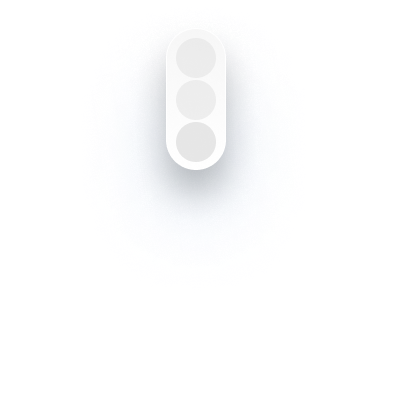
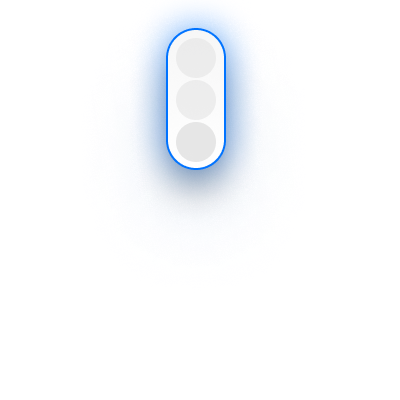
Add new sg selection

Changed region(s): [[0.36, 0.03, 0.63, 0.45]]

diff --git a/lib/ride/views/map.dart b/lib/ride/views/map.dart
@@ -1,3 +1,4 @@
+import 'dart:convert';
 import 'dart:io';
 import 'dart:math';
 
@@ -17,8 +18,10 @@ import 'package:priobike/settings/services/settings.dart';
 import 'package:priobike/status/services/sg.dart';
 
 class RideMapView extends StatefulWidget {
+  /// Callback that is called when the map is moved by the user.
   final Function onMapMoved;
 
+  /// If the map should follow the user location.
   final bool cameraFollowUserLocation;
 
   const RideMapView({Key? key, required this.onMapMoved, required this.cameraFollowUserLocation}) : super(key: key);
@@ -54,7 +57,7 @@ class RideMapViewState extends State<RideMapView> {
   bool? upcomingTrafficLightIsGreen;
 
   /// The index of the basemap layers where the first label layer is located (the label layers are top most).
-  var firstBaseMapLabelLayerIndex = 0;
+  int firstBaseMapLabelLayerIndex = 0;
 
   /// The index in the list represents the layer order in z axis.
   final List layerOrder = [
@@ -64,6 +67,7 @@ class RideMapViewState extends State<RideMapView> {
     userLocationLayerId,
     OfflineCrossingsLayer.layerId,
     TrafficLightsLayer.layerId,
+    TrafficLightsLayer.touchIndicatorsLayerId,
     TrafficLightLayer.layerId,
   ];
 
@@ -124,9 +128,10 @@ class RideMapViewState extends State<RideMapView> {
     await WaypointsLayer().update(mapController!);
     // Only hide the traffic lights behind the position if the user hasn't selected a SG.
     if (!mounted) return;
-    await TrafficLightsLayer(isDark, hideBehindPosition: ride.userSelectedSG == null).update(mapController!);
+    await TrafficLightsLayer(isDark, hideBehindPosition: false, showTouchIndicators: !widget.cameraFollowUserLocation)
+        .update(mapController!);
     if (!mounted) return;
-    await OfflineCrossingsLayer(isDark, hideBehindPosition: ride.userSelectedSG == null).update(mapController!);
+    await OfflineCrossingsLayer(isDark, hideBehindPosition: false).update(mapController!);
   }
 
   /// Update the view with the current data.
@@ -135,9 +140,10 @@ class RideMapViewState extends State<RideMapView> {
     final isDark = Theme.of(context).brightness == Brightness.dark;
     // Only hide the traffic lights behind the position if the user hasn't selected a SG.
     if (!mounted) return;
-    await TrafficLightsLayer(isDark, hideBehindPosition: ride.userSelectedSG == null).update(mapController!);
+    await TrafficLightsLayer(isDark, hideBehindPosition: false, showTouchIndicators: !widget.cameraFollowUserLocation)
+        .update(mapController!);
     if (!mounted) return;
-    await OfflineCrossingsLayer(isDark, hideBehindPosition: ride.userSelectedSG == null).update(mapController!);
+    await OfflineCrossingsLayer(isDark, hideBehindPosition: false).update(mapController!);
     await adaptToChangedPosition();
   }
 
@@ -154,6 +160,7 @@ class RideMapViewState extends State<RideMapView> {
       await mapController?.flyTo(
         mapbox.CameraOptions(
           center: mapbox.Point(coordinates: mapbox.Position(cameraTarget.longitude, cameraTarget.latitude)).toJson(),
+          padding: mapbox.MbxEdgeInsets(bottom: 200, top: 0, left: 0, right: 0),
           zoom: 16,
         ),
         mapbox.MapAnimationOptions(duration: 200),
@@ -359,11 +366,15 @@ class RideMapViewState extends State<RideMapView> {
     await WaypointsLayer().install(mapController!, iconSize: ppi / 8, at: index);
     index = await getIndex(TrafficLightsLayer.layerId);
     if (!mounted) return;
-    await TrafficLightsLayer(isDark, hideBehindPosition: ride.userSelectedSG == null)
-        .install(mapController!, iconSize: ppi / 5, at: index);
+    await TrafficLightsLayer(isDark, hideBehindPosition: false, showTouchIndicators: !widget.cameraFollowUserLocation)
+        .install(
+      mapController!,
+      iconSize: ppi / 5,
+      at: index,
+    );
     index = await getIndex(OfflineCrossingsLayer.layerId);
     if (!mounted) return;
-    await OfflineCrossingsLayer(isDark, hideBehindPosition: ride.userSelectedSG == null)
+    await OfflineCrossingsLayer(isDark, hideBehindPosition: false)
         .install(mapController!, iconSize: ppi / 5, at: index);
     index = await getIndex(TrafficLightLayer.layerId);
     if (!mounted) return;
@@ -376,7 +387,54 @@ class RideMapViewState extends State<RideMapView> {
 
   /// A callback which is executed when the map is scrolled.
   Future<void> onMapScroll(mapbox.ScreenCoordinate screenCoordinate) async {
+    if (ride.userSelectedSG != null) ride.unselectSG();
     widget.onMapMoved();
+  }
+
+  /// A callback which is executed when a tap on the map is registered.
+  /// This also resolves if a certain feature is being tapped on. This function
+  /// should get screen coordinates. However, at the moment (mapbox_maps_flutter version 0.4.0)
+  /// there is a bug causing this to get world coordinates in the form of a ScreenCoordinate.
+  Future<void> onMapTap(mapbox.ScreenCoordinate screenCoordinate) async {
+    if (mapController == null || !mounted) return;
+    if (widget.cameraFollowUserLocation) return;
+
+    // Because of the bug in the plugin we need to calculate the actual screen coordinates to query
+    // for the features in dependence of the tapped on screenCoordinate afterwards. If the bug is
+    // fixed in an upcoming version we need to remove this conversion.
+    final mapbox.ScreenCoordinate actualScreenCoordinate = await mapController!.pixelForCoordinate(
+      mapbox.Point(
+        coordinates: mapbox.Position(
+          screenCoordinate.y,
+          screenCoordinate.x,
+        ),
+      ).toJson(),
+    );
+
+    final List<mapbox.QueriedFeature?> features = await mapController!.queryRenderedFeatures(
+      mapbox.RenderedQueryGeometry(
+        value: json.encode(actualScreenCoordinate.encode()),
+        type: mapbox.Type.SCREEN_COORDINATE,
+      ),
+      mapbox.RenderedQueryOptions(
+        layerIds: [TrafficLightsLayer.layerId, TrafficLightsLayer.touchIndicatorsLayerId],
+      ),
+    );
+
+    if (features.isNotEmpty) {
+      onFeatureTapped(features[0]!);
+    }
+  }
+
+  /// A callback that is called when the user taps a feature.
+  onFeatureTapped(mapbox.QueriedFeature queriedFeature) async {
+    // Map the id of the layer to the corresponding feature.
+    final id = queriedFeature.feature['id'];
+    if ((id as String).startsWith("traffic-light-")) {
+      final sgIdx = int.tryParse(id.split("-")[2]);
+      if (sgIdx == null) return;
+      ride.userSelectSG(sgIdx);
+    }
   }
 
   @override
@@ -399,6 +457,7 @@ class RideMapViewState extends State<RideMapView> {
       onMapCreated: onMapCreated,
       onStyleLoaded: onStyleLoaded,
       onMapScroll: onMapScroll,
+      onMapTap: onMapTap,
       logoViewMargins: Point(20, marginYLogo),
       logoViewOrnamentPosition: mapbox.OrnamentPosition.TOP_LEFT,
       attributionButtonMargins: Point(20, marginYAttribution),

diff --git a/lib/common/map/layers/sg_layers.dart b/lib/common/map/layers/sg_layers.dart
@@ -18,10 +18,13 @@ class TrafficLightsLayer {
   /// The ID of the Mapbox layer.
   static const layerId = "traffic-lights-icons";
 
+  /// The ID of the touch indicators Mapbox layer.
+  static const touchIndicatorsLayerId = "traffic-lights-touch-indicators";
+
   /// The features to display.
   final List<dynamic> features = List.empty(growable: true);
 
-  TrafficLightsLayer(bool isDark, {hideBehindPosition = false}) {
+  TrafficLightsLayer(bool isDark, {hideBehindPosition = false, showTouchIndicators = false}) {
     final showLabels = getIt<Settings>().sgLabelsMode == SGLabelsMode.enabled;
     final routing = getIt<Routing>();
     final userPosSnap = getIt<Positioning>().snap;
@@ -33,7 +36,7 @@ class TrafficLightsLayer {
       final distanceToSgOnRoute = max(-5, min(0, sgDistanceOnRoute - (userPosSnap?.distanceOnRoute ?? 0)));
       features.add(
         {
-          "id": "traffic-light",
+          "id": "traffic-light-$i", // Required for the click listener.
           "type": "Feature",
           "geometry": {
             "type": "Point",
@@ -45,6 +48,7 @@ class TrafficLightsLayer {
             "showLabels": showLabels,
             "distanceToSgOnRoute": distanceToSgOnRoute,
             "hideBehindPosition": hideBehindPosition,
+            "showTouchIndicators": showTouchIndicators,
           },
         },
       );
@@ -123,6 +127,42 @@ class TrafficLightsLayer {
             ""
           ]));
     }
+
+    final trafficLightTouchIndicatorsLayerExists = await mapController.style.styleLayerExists(touchIndicatorsLayerId);
+    if (!trafficLightTouchIndicatorsLayerExists) {
+      await mapController.style.addLayerAt(
+          mapbox.SymbolLayer(
+            sourceId: sourceId,
+            id: touchIndicatorsLayerId,
+            iconSize: iconSize,
+            iconAllowOverlap: true,
+            textAllowOverlap: true,
+            textIgnorePlacement: true,
+            iconOpacity: 0,
+          ),
+          mapbox.LayerPosition(at: at));
+      await mapController.style.setStyleLayerProperty(
+          touchIndicatorsLayerId,
+          'icon-image',
+          json.encode([
+            "case",
+            ["get", "isDark"],
+            "trafficlighttouchindicatordark",
+            "trafficlighttouchindicatorlight",
+          ]));
+      await mapController.style.setStyleLayerProperty(
+          touchIndicatorsLayerId,
+          'icon-opacity',
+          json.encode(
+            showAfter(zoom: 16, opacity: [
+              "case",
+              ["get", "showTouchIndicators"],
+              1,
+              0
+            ]),
+          ));
+    }
+
     return layerId;
   }
 
@@ -188,8 +228,7 @@ class TrafficLightLayer {
         break;
     }
     final sgPos = ride.userSelectedSG?.position ?? ride.calcCurrentSG?.position;
-    if (sgQuality == null || sgPos == null) return;
-    if (sgQuality < Ride.qualityThreshold) return;
+    if (sgPos == null) return;
 
     features.add(
       {

diff --git a/lib/common/map/symbols.dart b/lib/common/map/symbols.dart
@@ -29,6 +29,9 @@ class SymbolLoader {
     await add("trafficlightgreenwavedark", "assets/images/green-wave-dark.png", 400, 400);
     await add("trafficlightgreenwavelight", "assets/images/green-wave-light.png", 400, 400);
 
+    await add("trafficlighttouchindicatordark", "assets/images/trafficlights/touch-indicator-dark.png", 400, 400);
+    await add("trafficlighttouchindicatorlight", "assets/images/trafficlights/touch-indicator-light.png", 400, 400);
+
     await add("alert", "assets/images/alert.drawio.png", 104, 104);
     await add("start", "assets/images/start.drawio.png", 83, 83);
     await add("destination", "assets/images/destination.drawio.png", 84, 84);

diff --git a/lib/ride/views/main.dart b/lib/ride/views/main.dart
@@ -186,6 +186,7 @@ class RideViewState extends State<RideView> {
     );
   }
 
+  /// Called when the user moves the map.
   Future<void> onMapMoved() async {
     if (cameraFollowsUserLocation) {
       setState(() {
@@ -249,6 +250,8 @@ class RideViewState extends State<RideView> {
                     label: "Zentrieren",
                     elevation: 20,
                     onPressed: () {
+                      final ride = getIt<Ride>();
+                      if (ride.userSelectedSG != null) ride.unselectSG();
                       setState(() {
                         cameraFollowsUserLocation = true;
                       });

diff --git a/lib/ride/services/ride.dart b/lib/ride/services/ride.dart
@@ -102,6 +102,16 @@ class Ride with ChangeNotifier {
     notifyListeners();
   }
 
+  /// Select SG with specific index in the list of SGs.
+  void userSelectSG(int sgIndex) {
+    if (route == null) return;
+    if (route!.signalGroups.isEmpty) return;
+    userSelectedSGIndex = sgIndex;
+    userSelectedSG = route!.signalGroups[userSelectedSGIndex!];
+    selectSG(userSelectedSG);
+    notifyListeners();
+  }
+
   /// Unselect the current signal group.
   void unselectSG() {
     if (userSelectedSG == null) return;
